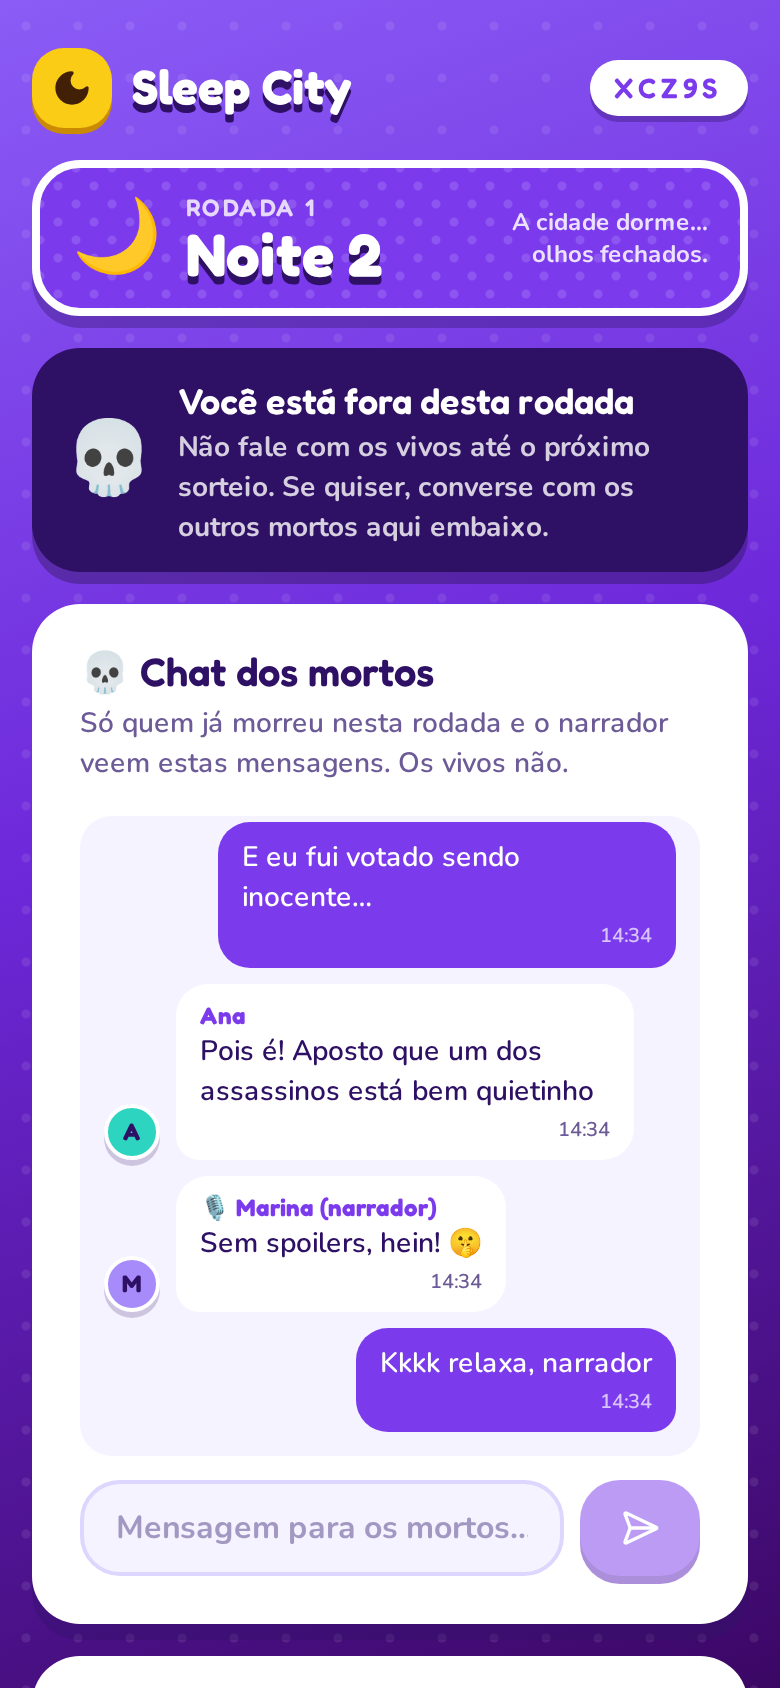
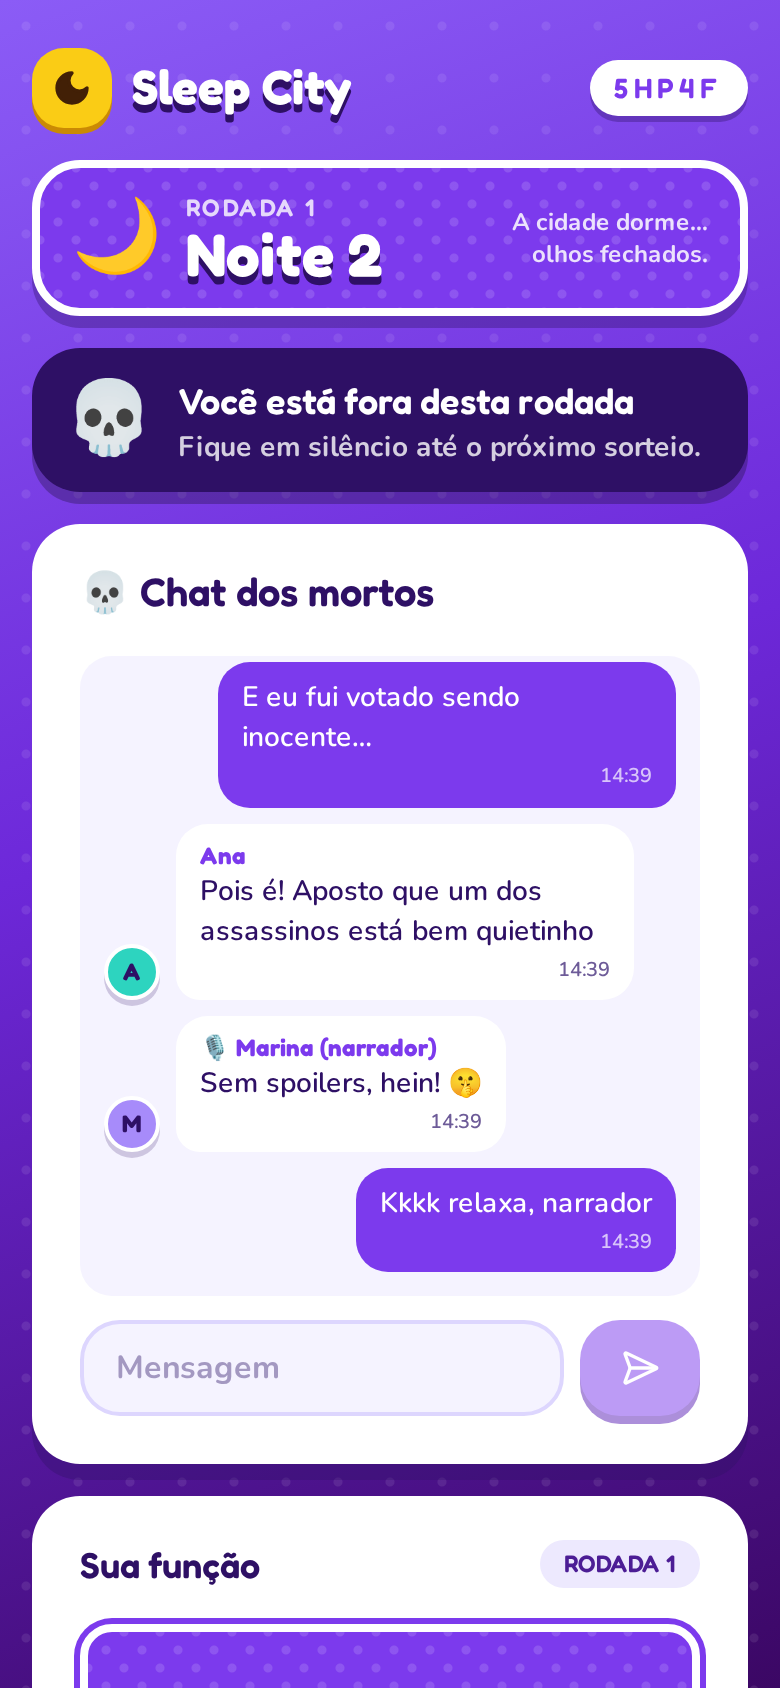
chore: textos mais curtos no chat dos mortos

diff --git a/src/components/DeadChat.tsx b/src/components/DeadChat.tsx
@@ -4,7 +4,7 @@ import { toast } from 'sonner'
 
 import { Avatar } from '@/components/Avatar'
 import { Button } from '@/components/ui/button'
-import { Card, CardContent, CardDescription, CardHeader, CardTitle } from '@/components/ui/card'
+import { Card, CardContent, CardHeader, CardTitle } from '@/components/ui/card'
 import { Input } from '@/components/ui/input'
 import { api } from '@/lib/api'
 import type { RoomView } from '@/lib/types'
@@ -58,17 +58,12 @@ export function DeadChat({ room, onChange }: { room: RoomView; onChange: (room: 
     <Card className="gap-4">
       <CardHeader>
         <CardTitle>💀 Chat dos mortos</CardTitle>
-        <CardDescription>
-          {room.isHost
-            ? 'Só quem já morreu nesta rodada conversa aqui. Você lê e pode responder; os vivos não veem.'
-            : 'Só quem já morreu nesta rodada e o narrador veem estas mensagens. Os vivos não.'}
-        </CardDescription>
       </CardHeader>
       <CardContent className="flex flex-col gap-3">
         <div ref={list} className="flex max-h-80 min-h-24 flex-col gap-2 overflow-y-auto rounded-2xl bg-muted p-3">
           {count === 0 ? (
             <p className="m-auto text-center text-sm font-bold text-muted-foreground">
-              Ninguém falou nada ainda. Puxe o assunto! 👻
+              Nenhuma mensagem ainda 👻
             </p>
           ) : (
             messages.map((m) => (
@@ -100,7 +95,7 @@ export function DeadChat({ room, onChange }: { room: RoomView; onChange: (room: 
           <Input
             value={text}
             onChange={(e) => setText(e.target.value)}
-            placeholder="Mensagem para os mortos…"
+            placeholder="Mensagem"
             maxLength={MAX_LENGTH}
             autoComplete="off"
             aria-label="Mensagem"

diff --git a/src/pages/RoomPage.tsx b/src/pages/RoomPage.tsx
@@ -208,9 +208,7 @@ export function RoomPage({ code }: { code: string }) {
               <span className="text-4xl">💀</span>
               <div>
                 <p className="font-display text-lg font-semibold">Você está fora desta rodada</p>
-                <p className="text-sm font-bold text-white/80">
-                  Não fale com os vivos até o próximo sorteio. Se quiser, converse com os outros mortos aqui embaixo.
-                </p>
+                <p className="text-sm font-bold text-white/80">Fique em silêncio até o próximo sorteio.</p>
               </div>
             </div>
           )}
